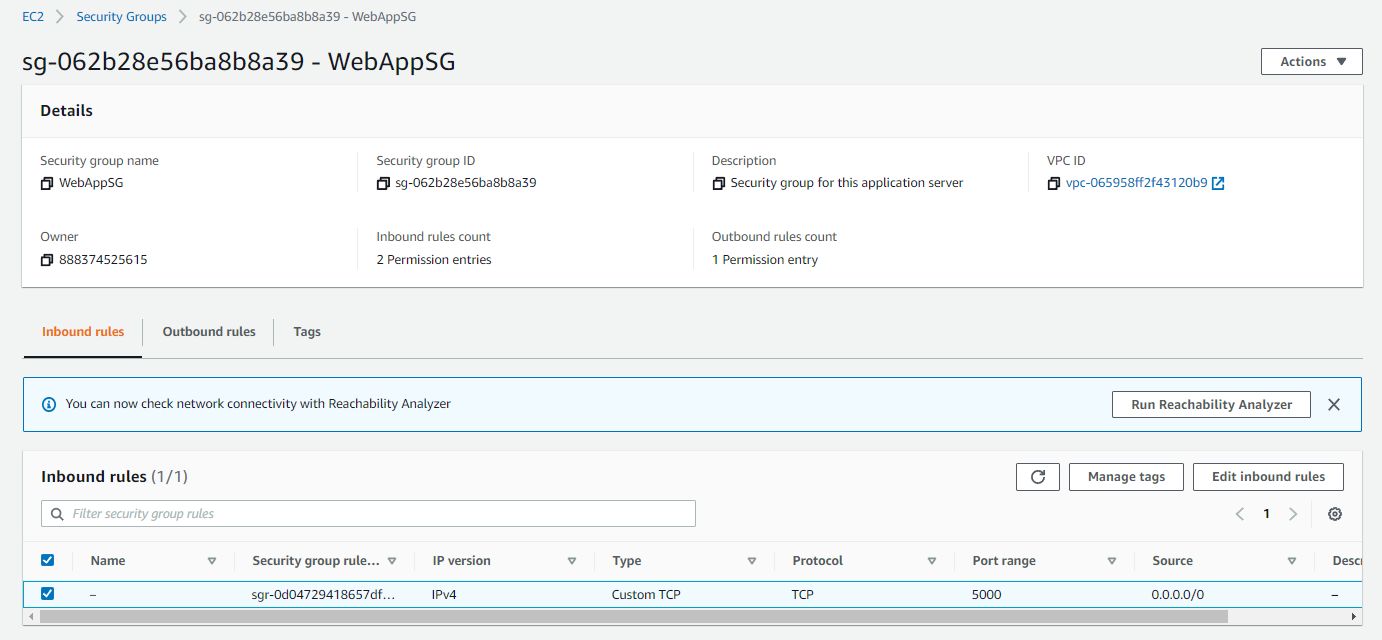
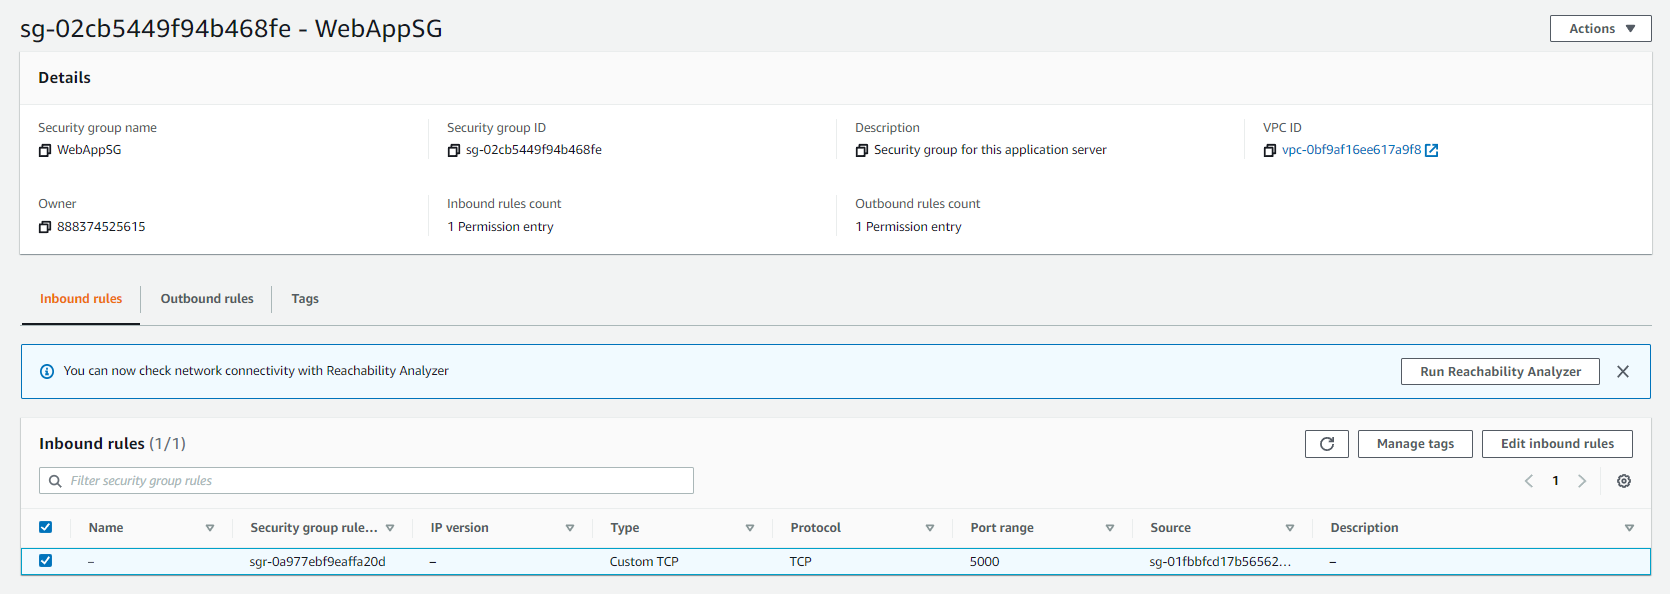
second submit

diff --git a/README.md b/README.md
@@ -371,6 +371,7 @@ sudo service ssh restart
 **Deliverables**:
 - **E4T2_networksg.png** - Screenshot of the security group change.   
   ![](./screenshot/E4T2_networksg.png)
+  ![](2022-01-07-09-25-35.png)
 
 - **E4T2_sshattempt.png** - Screenshot of your SSH attempt.  
   ![](./screenshot/E4T2_sshattempt.png)
@@ -382,10 +383,9 @@ sudo service ssh restart
 
 **Deliverables:**
 - **E4T2_s3iampolicy.png** - Screenshot of the updated IAM policy.
-  ![](./screenshot/E4T2_s3iampolicy.png)
-- **E4T2_s3copy.png** - Screenshot of the failed copy attempt.
-  ![](./screenshot/E4T2_s3copy.png)
-
+  ![](./screenshot/E4T2_s3iampolicy.png)    
+- **E4T2_s3copy.png** - Screenshot of the failed copy attempt.  
+  ![](./screenshot/E4T2_s3copy.png)  
 #### Apply Default Server-side Encryption to the S3 Bucket
 
 This will cause the S3 service to encrypt any objects that are stored going forward by default.
@@ -412,6 +412,8 @@ Capture the screenshot of the secret recipes bucket showing that default encrypt
   ![](./screenshot/E4T3_config.png)
 - **E4T3_inspector.png** - Screenshot of Inspector after reevaluating the number of findings.
  ![](./screenshot/E4T3_inspector.png)
+
+
 
 ### Task 4: Questions and Analysis
 
